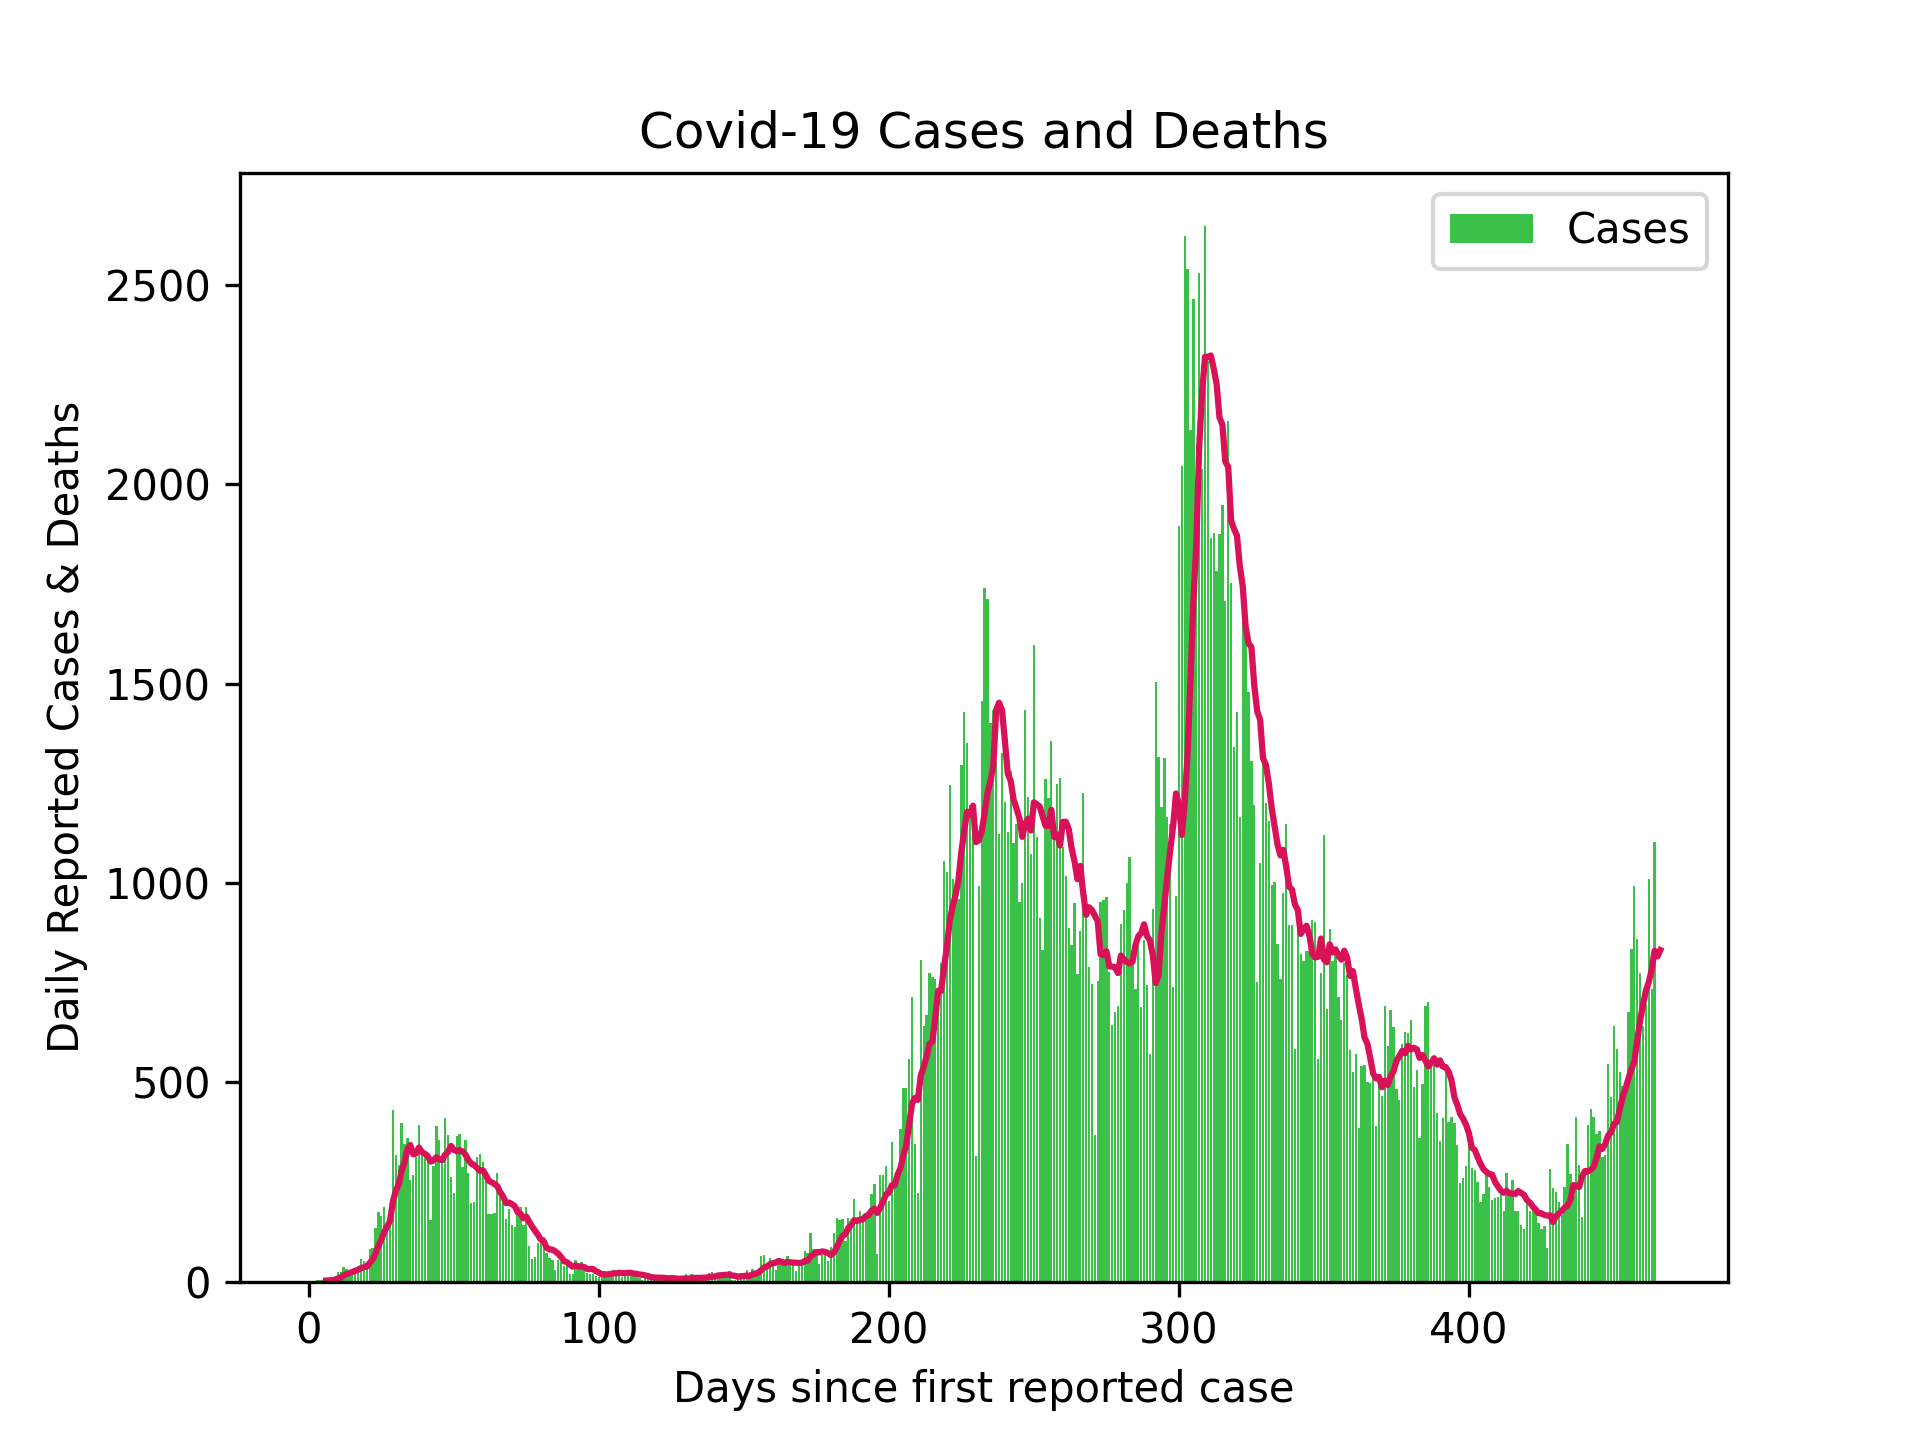
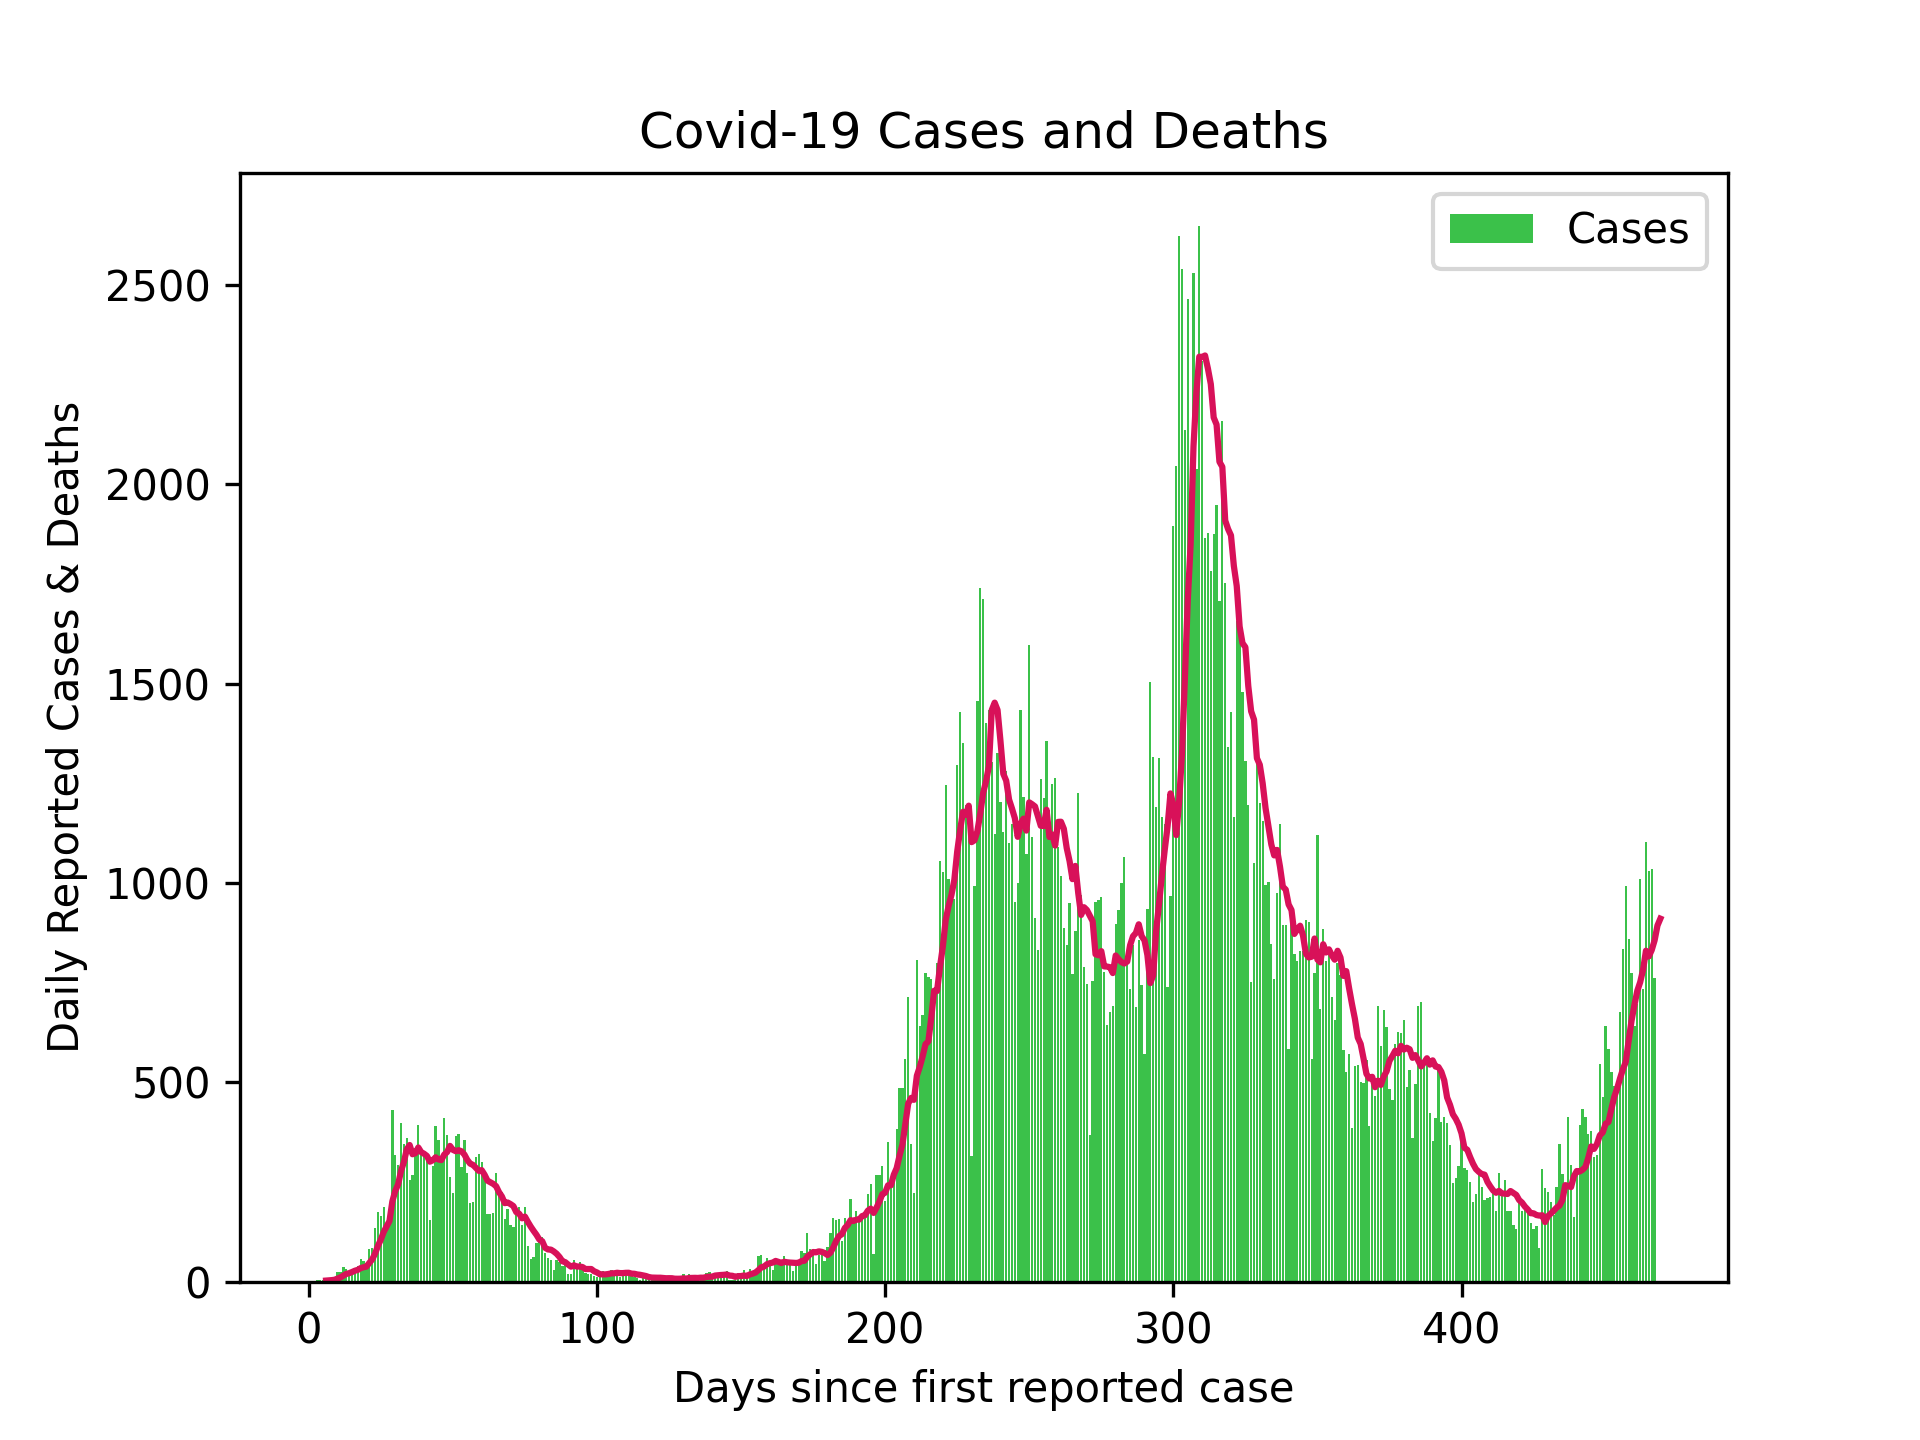
Updated Scottish cases 14/06/21

Changed region(s): [[0.4062, 0.1875, 0.875, 0.9375], [0.1875, 0.7812, 0.3438, 0.9375]]

diff --git a/README.md b/README.md
@@ -1,4 +1,4 @@
-# Scottish Cases 11/06/21
+# Scottish Cases 14/06/21
 
 ![alt](scottish_cases.png)
 
